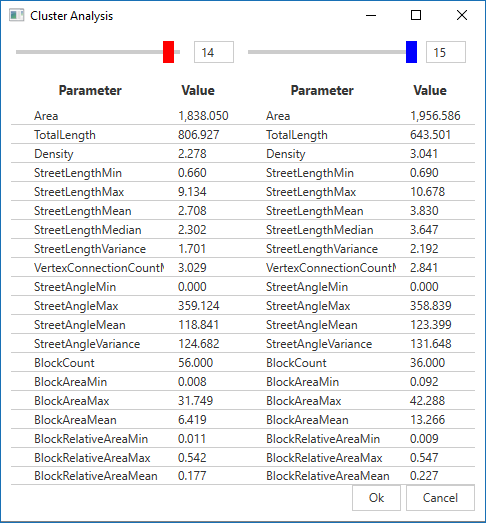
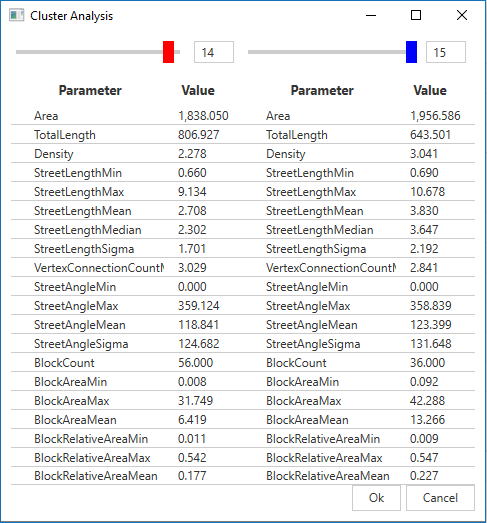
changed variance to sigma

diff --git a/075_ResultsMeasurements.tex b/075_ResultsMeasurements.tex
@@ -108,7 +108,7 @@ Like anticipated in section \ref{sec:businessDistinct} the business district (fi
 \end{figure}
 \FloatBarrier
 
-A detected outskirts subgraph can be viewed in figure \ref{fig:result_outskirts_district}. The measured results can be found in table \ref{tab:measured_cluster_ratings} cluster number C3. They show a high street length variance and median as expected. The density is very high because of a low street count on a big area.
+A detected outskirts subgraph can be viewed in figure \ref{fig:result_outskirts_district}. The measured results can be found in table \ref{tab:measured_cluster_ratings} cluster number C3. They show a high street length sigma and median as expected. The density is very high because of a low street count on a big area.
 
 \begin{figure}[ht]
     \centering
@@ -138,14 +138,14 @@ The following table \ref{tab:cluterAnalysisDescription} contains the parameters 
 
     Street Length Min/Max/Mean & Shortest/Longest/Average street length  \\
     Street Length Median & Middle value of the length dataset \\
-    Street Length Variance & Sigma of the normal distribution curve of the variance \\
+    Street Length Sigma & Sigma of the normal distribution curve of the variance \\
     \hline
 
     Vertex Connections & Mean connected edges per vertex  \\
     \hline
 
     Street Angle Min/Max/Mean & Smallest/Biggest/Average angle between two edges \\
-    Street Angle Variance & Sigma of the normal distribution curve of the angles \\
+    Street Angle Sigma & Sigma of the normal distribution curve of the angles \\
     \hline
 
     Block Count & Total number of blocks \\
@@ -182,7 +182,7 @@ The following table \ref{tab:cluterAnalysisDescription} contains the parameters 
     \multirow{3}{*}{Street Length}
     & Mean & 2.72 & 3.85 & 4.82 \\
     & Median & 2.30 & 3.65 & 3.28 \\
-    & Variance & 1.70 & 2.19 & 5.00 \\
+    & Sigma & 1.70 & 2.19 & 5.00 \\
     \hline
 
     Vertex
@@ -191,7 +191,7 @@ The following table \ref{tab:cluterAnalysisDescription} contains the parameters 
 
     \multirow{2}{*}{Street Angle}
     & Mean & 119.03 & 123.75 & 137.18 \\
-    & Variance & 124.68 & 131.65 & 129.47 \\
+    & Sigma & 124.68 & 131.65 & 129.47 \\
     \hline
 
     \multirow{3}{*}{Block}

diff --git a/030_BackgroundClustering.tex b/030_BackgroundClustering.tex
@@ -124,8 +124,8 @@ To evaluate the generated clusters different measurement methods are necessary. 
         \item Area based on the convex hull of the cluster area
         \item Total length of the streets
         \item Ratio between the area and total length
-        \item Distribution variance of the street length
-        \item Distribution variance of the street angles
+        \item Sigma of the distribution variance of the street length
+        \item Sigma of the distribution variance of the street angles
         \item Ratio between street block size and surrounding circle area (minima, maxima, mean)
     \end{itemize}
     \item Centrality-based measurements normalized by the street count (minima, maxima, mean):
@@ -146,9 +146,9 @@ The parameter \textit{Integration} describes the closeness centrality. This mean
 
 With \textit{Choice} the betweenness centrality is described. The approach is to calculate the shortest path between every vertex. Every time a given vertex is visited the betweenness-centrality value of the vertex is raised by one. As a result the highest measured value indicates for a vertex to be in or near the centre of a graph.
 
-\subsection{Variance}
-The parameter variance describes the sigma of the normal curve of the distribution function.
-First of all the measured data is round to fit into a distribution function (listing \ref{eq:distribution_function}). Then the expected value (listing \ref{eq:expected_value}) and the variance (listing \ref{eq:variance}) is calculated. Finally the standard deviation (square root of V(x)) is computed (listing \ref{eq:standard_deviation}).
+\subsection{Sigma}
+The parameter \textit{Sigma} describes the standard deviation of the normal curve of the distribution function.
+First of all the measured data is round to fit into a distribution function (listing \ref{eq:distribution_function}). Then the expected value (listing \ref{eq:expected_value}) and the variance (listing \ref{eq:variance}) is calculated. Finally the standard deviation (square root of V(x)) or sigma is computed (listing \ref{eq:standard_deviation}).
 \begin{align}
 \label{eq:distribution_function} 
 F(x) &= P(X \leq x) =  \sum_{t\in{X}, t\leq{x}}{f(t)} \\

diff --git a/010_Introduction.tex b/010_Introduction.tex
@@ -3,7 +3,7 @@ In this thesis, the initial task was to learn how street networks and buildings 
 
 A library of computational planning tools named \acrshort{acr:CPlan} \ref{CPlan} were provided. Those were, amongst others, developed by the \gls{iA}. To become acquainted with \acrshort{acr:CPlan} and to provide a way to create chromosomes for the existing genetic algorithms from street networks, a tree generation algorithm was developed (section \ref{sec:tree_creation_angle}).
 
-Selecting interesting areas from different cities and recombining them into a new one would allow a fast creation of new cities. To reach this goal, many steps are necessary. First of all the cities must be separated into reasonable parts based on vertex position or edge length. The approach of this thesis is to use clustering algorithms from the field of machine learning. Useful cluster areas can then be selected by comparing different measured values like the variance of the street length or the median block length.
+Selecting interesting areas from different cities and recombining them into a new one would allow a fast creation of new cities. To reach this goal, many steps are necessary. First of all the cities must be separated into reasonable parts based on vertex position or edge length. The approach of this thesis is to use clustering algorithms from the field of machine learning. Useful cluster areas can then be selected by comparing different measured values like the sigma of the street length or the median block length.
 
 For this thesis the centroid-based clustering algorithm K-Means was implemented and tested (section \ref{sec:K-Means}). To improve the results --- so that clusters are guaranteed to be connected subgraphs --- \gls{APSP} algorithms were used (section \ref{sec:K-Means_shortest_path}).
 

diff --git a/060_Implementation.tex b/060_Implementation.tex
@@ -151,10 +151,10 @@ The following parameters and descriptions characterise all implemented parameter
     total\ length &= \sum_{e\ \in\ E}{} length(e)\  \\
     density &=\ \frac{total\ area}{total\ length} \\
     street\ length\ median &=  middle\ of\ the\ street\ length\ dataset \\
-    street\ length\ variance &= \sigma\,\ where\ \sim\mathcal{N}(m,\sigma^2)\ and\ m\ =\ 'street\ length\ median' \\
+    street\ length\ sigma &= \sigma\,\ where\ \sim\mathcal{N}(m,\sigma^2)\ and\ m\ =\ 'street\ length\ median' \\
     vertex\ connections\ mean &= \frac{1}{|V|} \sum_{v\ \in\ V}{} connection\_count(v) \\
     street\ angle\ mean &= \frac{1}{|V|} \sum_{v\ \in\ V}{} angle(v) \\
-    street\ angle\ variance &= \sigma\ where \sim\mathcal{N}(m,\sigma^2)\ and\ m\ =\ median\ of\ all\ angles \\
+    street\ angle\ sigma &= \sigma\ where \sim\mathcal{N}(m,\sigma^2)\ and\ m\ =\ median\ of\ all\ angles \\
     block\ count &= count(blocks) \\
     block\ area\ A/Ac &= \frac{area(block)}{circumscribed\_circle(block)} \\
     integration &= normalised\ in-centrality \\

diff --git a/100_Appendix.tex b/100_Appendix.tex
@@ -124,7 +124,7 @@ This table represent the full measured data with the cluster analysis method.
             & Max & 9.13 & 10.68 & 38.00 \\
             & Mean & 2.72 & 3.85 & 4.82 \\
             & Median & 2.30 & 3.65 & 3.28 \\
-            & Variance & 1.70 & 2.19 & 5.00 \\
+            & Sigma & 1.70 & 2.19 & 5.00 \\
             \hline
             \multirow{1}{*}{Vertex} 
             & Connections & 3.04 & 2.84 & 2.45 \\
@@ -133,7 +133,7 @@ This table represent the full measured data with the cluster analysis method.
             & Min & 0.00 & 0.00 & 0.00 \\
             & Max & 151.80 & 358.84 & 359.80 \\
             & Mean & 119.03 & 123.75 & 137.18 \\
-            & Variance & 124.68 & 131.65 & 129.47 \\
+            & Sigma & 124.68 & 131.65 & 129.47 \\
             \hline
             \multirow{5}{*}{Block} 
             & Count & 55 & 35 & 26 \\
